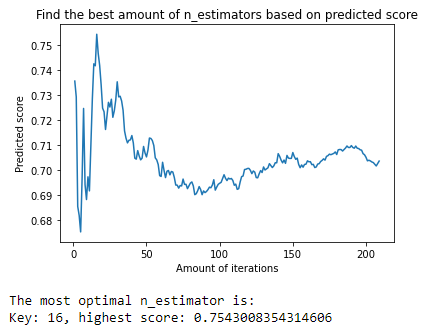
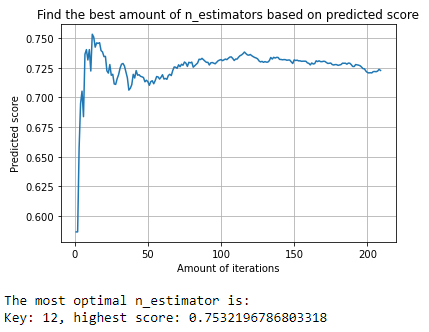
Evaluating a model

diff --git a/Predictive Analysis/visualizing_the_outcome_of_a_model.md b/Predictive Analysis/visualizing_the_outcome_of_a_model.md
@@ -4,7 +4,7 @@
 
 Informative and straight to the point visualization of your data is very important to make conclusion about what you're actually seeing. This chapter displays the different visualizations that were applied by the creation of the MET prediction models.
 
-<details><summary>Seaborn Heatmap</summary>
+<details><summary>Seaborn — Heatmap</summary>
 
 The Seaborn library was used to create a Heatmap to display correlations between all the features. The use of this heatmap can be found in the [Training a model chapter](training_a_model.md).
 
@@ -13,13 +13,39 @@ This heatmap was used to see which features were low or high correlated to the `
 
 </details>
 
-<details><summary>Finding optimal n_estimators line chart</summary>
+---
+
+<details><summary>Finding optimal n_estimators — Line Chart</summary>
 
 The following visualization displays the scores from a certain range. I wanted to find the best amount of iterations for this model. In some cases the `n_estimator` value of 2 gave the best results, this would be unlikely so I decided to start from 10 instead of 1.
-At first the amount of iterations was set to 100, but after analysing the results I saw that the scores were going up around the 100 mark. I decided to expand this to 200 to see if it went higher. 
+At first the amount of iterations was set to 100, but after analysing the results I saw that the scores were going up around the 100 mark. I decided to expand this to 200 to see if it went higher, but it didn't.
 
-![](../Images/predictive-analysis/optimal_estimators.PNG)
+![](../Images/predictive-analysis/n_estimators_results_plot.PNG)
 
 </details>
+
+---
+
+<details><summary>Ground Truth vs Prediction — Bar Chart</summary>
+
+This Bar Chart shows the differences between the `Ground Truth` and the `Actual Prediction`. The 2 values were set next to eachother to see if there were outliers. Once we could see the outliers we could act upon it. 
+
+![](../Images/predictive-analysis/ground_truth_vs_prediction.PNG)
+
+</details>
+
+---
+
+<details><summary>Ground Truth vs Prediction — Scatter Plot</summary>
+
+This Scatter Plot shows the same results as the Bar Chart above this section. The difference is the type of visualization.
+Here you can see how the `Ground Truth` and `Prediction` fit the Regression line. With this scatter plot it is easier to spot if there are big outliers or if the data fits the regression line.
+
+![](../Images/predictive-analysis/predictions_scatterplot.PNG)
+
+
+</details>
+
+---
 
 [< Evaluating a model](evaluating_a_model.md)  — [README >](../README.md)
